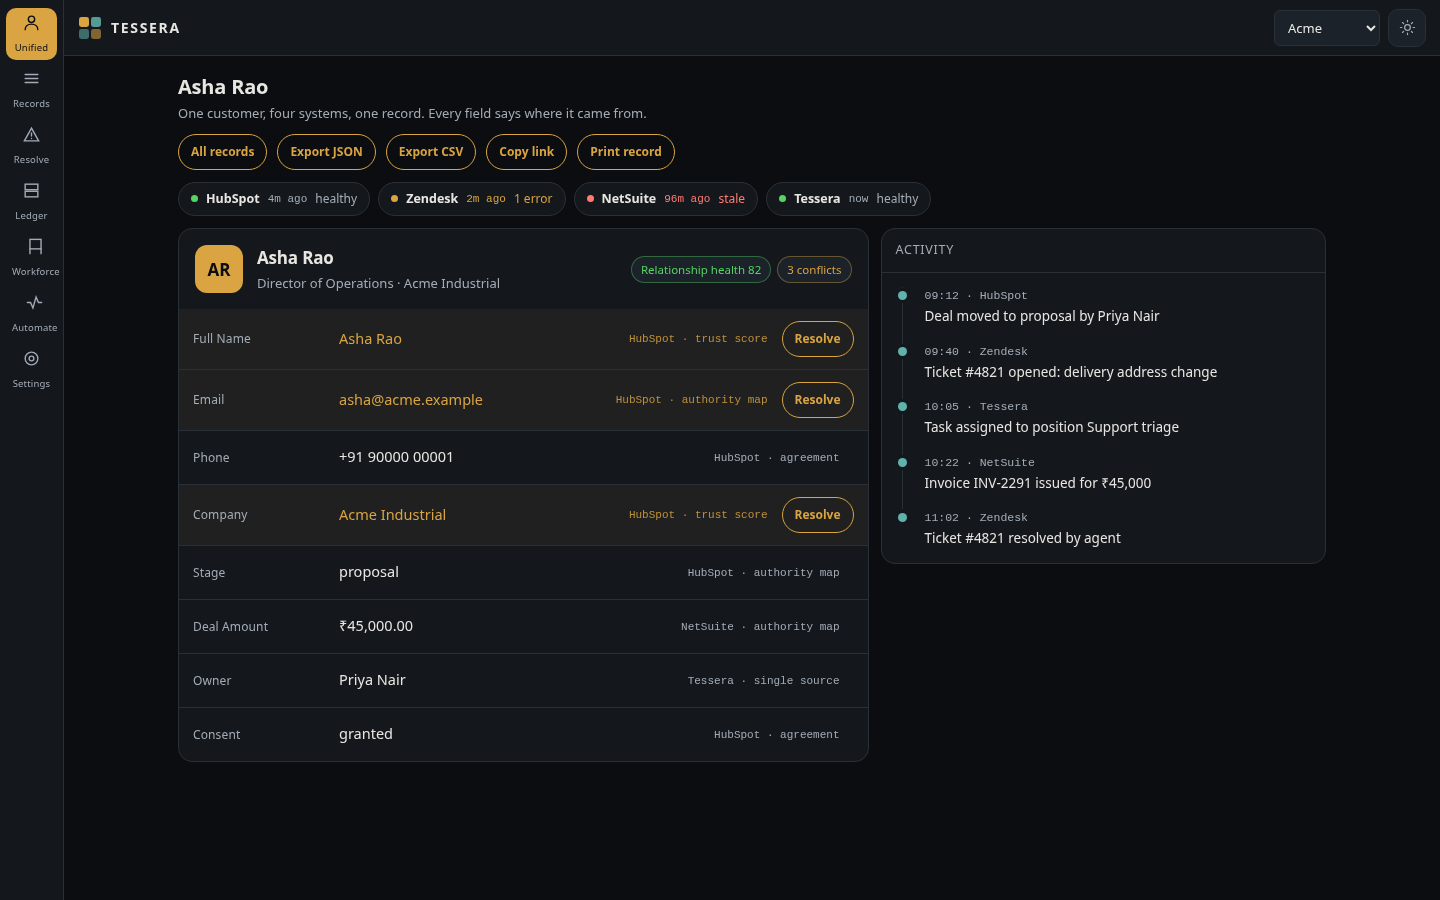
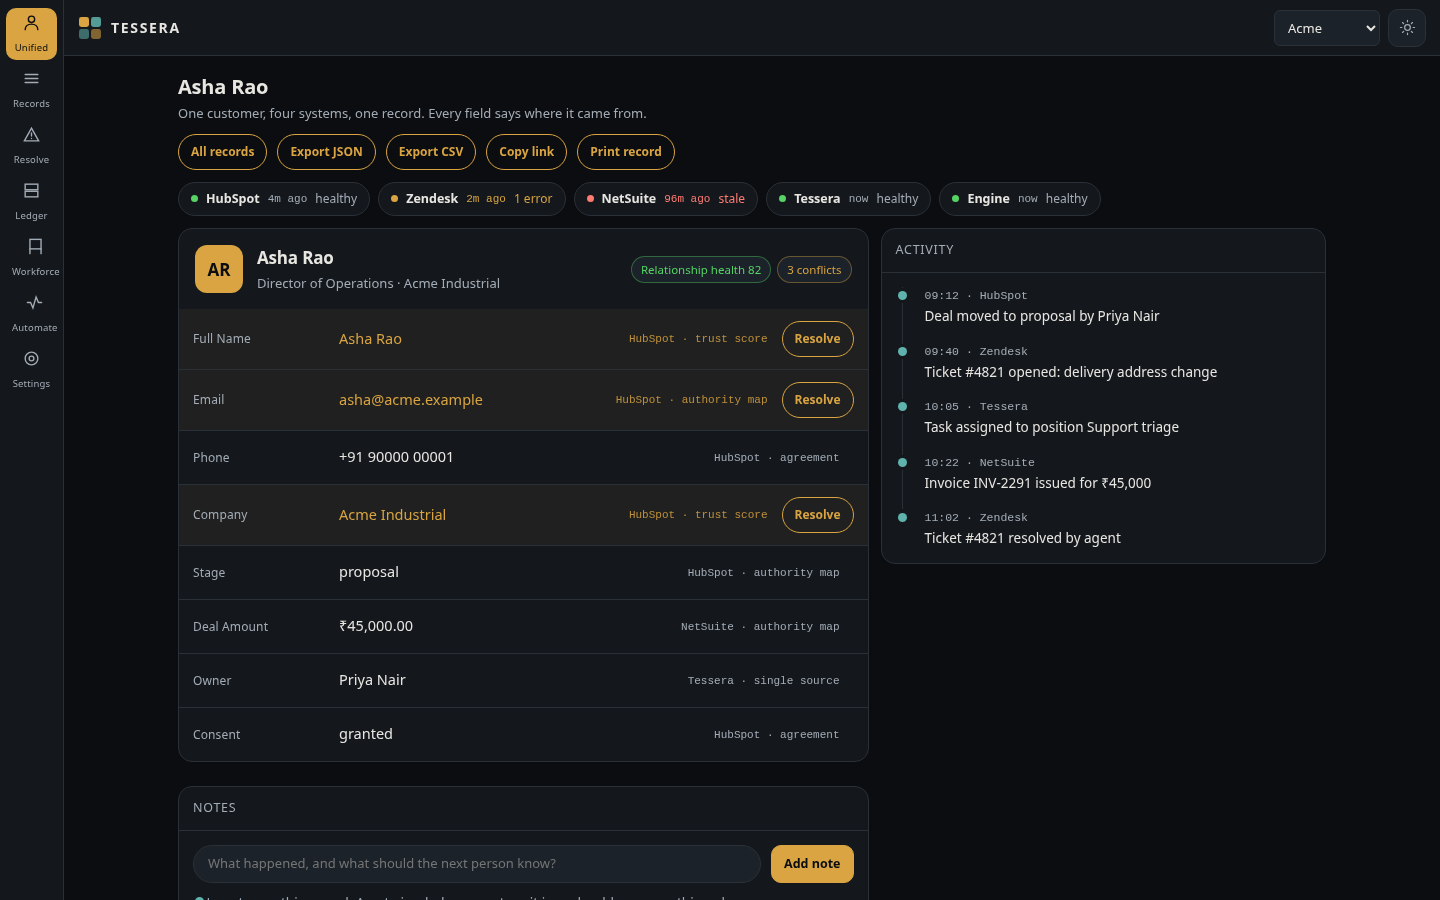
notes, workflow undo, and focus that goes back where it came from
- A note is a note.added ledger event, not a row in a second store: durable,
  attributed, sequenced, and in the chain. Retracting appends note.retracted and
  leaves the original, because a ledger that deletes is not a ledger.
- Undo for a fired workflow, on the same compensating-event pattern as resolve.
- Focus management for all three overlays: remember where focus came from, return
  it on close, keep Tab inside. A dialog you can tab out of strands a keyboard
  user behind the backdrop.

Changed region(s): [[0.125, 0.9333, 0.5938, 1.0], [0.6562, 0.2178, 0.75, 0.2489], [0.125, 0.8711, 0.1562, 0.9022]]

diff --git a/index.html b/index.html
@@ -433,6 +433,19 @@ a{color:var(--accent)}
             <ul class="tl" id="timeline"></ul>
           </div>
         </div>
+
+        <div class="card" style="margin-top:var(--gap)">
+          <header>Notes</header>
+          <div class="body">
+            <div class="row" style="margin-bottom:10px">
+              <label class="sr" for="noteText">Add a note</label>
+              <input id="noteText" class="search" style="flex:1 1 auto;min-width:0"
+                     placeholder="What happened, and what should the next person know?">
+              <button class="btn small primary" id="noteAdd">Add note</button>
+            </div>
+            <ul class="tl" id="noteList"></ul>
+          </div>
+        </div>
       </div>
     </section>
 
@@ -1254,6 +1267,46 @@ async function verifyChain() {
 }
 
 /* ---- rendering ---------------------------------------------------------- */
+/* Every overlay returns focus where it came from and keeps Tab inside itself.
+   A dialog you can tab out of is a dialog that strands a keyboard user behind
+   the backdrop. */
+let sheetReturnFocus = null;
+
+function focusables(root) {
+  return Array.from(root.querySelectorAll(
+    'button, [href], input, select, textarea, [tabindex]:not([tabindex="-1"])'))
+    .filter(node => !node.disabled && node.offsetParent !== null);
+}
+
+function trapFocus(root) {
+  root.addEventListener("keydown", event => {
+    if (event.key !== "Tab") return;
+    const nodes = focusables(root);
+    if (!nodes.length) return;
+    const first = nodes[0];
+    const last = nodes[nodes.length - 1];
+    if (event.shiftKey && document.activeElement === first) {
+      event.preventDefault(); last.focus();
+    } else if (!event.shiftKey && document.activeElement === last) {
+      event.preventDefault(); first.focus();
+    }
+  });
+}
+
+function openSheet(id) {
+  sheetReturnFocus = document.activeElement;
+  const el = $(id);
+  el.hidden = false;
+  const nodes = focusables(el);
+  if (nodes.length) nodes[0].focus();
+}
+
+function closeSheet(id) {
+  $(id).hidden = true;
+  if (sheetReturnFocus && sheetReturnFocus.focus) sheetReturnFocus.focus();
+  sheetReturnFocus = null;
+}
+
 function toast(message, onUndo) {
   const el = $("#toast");
   el.textContent = "";
@@ -1429,6 +1482,38 @@ function renderConnectors() {
       <span>${status.label}</span>
     </span>`;
   }).join("");
+}
+
+function renderNotes() {
+  const host = $("#noteList");
+  if (!host) return;
+  const retracted = new Set((state.ledger || [])
+    .filter(event => event.action === "note.retracted")
+    .map(event => event.payload.note));
+  const notes = (state.ledger || []).filter(event =>
+    event.action === "note.added" &&
+    event.payload.record === state.selected &&
+    !retracted.has(event.payload.note));
+  host.innerHTML = notes.length
+    ? notes.slice().reverse().map(event => `
+        <li><time>#${event.seq} · ${event.actor}</time><p>${event.payload.text}</p></li>`).join("")
+    : `<li style="border-left-color:transparent;padding-left:0"><p class="note">
+         No notes on this record. A note is a ledger event, so it is as durable as everything else.</p></li>`;
+}
+
+async function addNote() {
+  const input = $("#noteText");
+  const text = (input.value || "").trim();
+  if (!text) { input.focus(); return; }
+  const noteId = "n" + Date.now().toString(36);
+  input.value = "";
+  await enqueue("note.added", "human", { record: state.selected, note: noteId, text });
+  renderNotes();
+  toast("Note added", async () => {
+    await enqueue("note.retracted", "human", { record: state.selected, note: noteId });
+    renderNotes();
+    toast("Note retracted - the original stays in the chain");
+  });
 }
 
 function renderTimeline() {
@@ -1680,7 +1765,10 @@ function renderWorkflows() {
     const flow = WORKFLOWS.find(f => f.id === btn.dataset.run);
     if (!evaluateCondition(flow.condition, RECORD)) { toast("Condition does not match this record"); return; }
     await enqueue("workflow.fired", "system", { workflow: flow.id, actions: flow.actions.length });
-    toast(`${flow.name}: ${flow.actions.length} actions ran`);
+    toast(`${flow.name}: ${flow.actions.length} actions ran`, async () => {
+      await enqueue("workflow.reverted", "human", { workflow: flow.id });
+      toast("Run reverted - the firing stays in the chain");
+    });
   });
   $$("[data-toggle]").forEach(btn => btn.onclick = () => {
     const id = btn.dataset.toggle;
@@ -1711,7 +1799,7 @@ function renderAll() {
   $("#printMeta").textContent =
     `${record.name} · ${new Date().toISOString().slice(0, 16).replace("T", " ")} UTC · ` +
     `chain head ${head}… · ${Object.keys(record.fields).filter(isConflict).length} open conflict(s)`;
-  renderRecords(); renderConnectors();
+  renderRecords(); renderConnectors(); renderNotes();
   renderFields(); renderTimeline(); renderRules(); renderConflicts(); renderLedger(); renderSeats();
   renderRouting(); renderWorkflows();
   $("#storageNote").textContent =
@@ -1743,12 +1831,11 @@ function openHistory(field) {
   $("#histBody").innerHTML = rows + `
     <p class="note" style="margin-top:12px">Every write is in the chain. Close this and press
       <b>Verify chain</b> on the Ledger screen to recompute all of it.</p>`;
-  $("#hist").hidden = false;
-  $("#histClose").focus();
+  openSheet("#hist");
 }
 
 function closeHistory() {
-  $("#hist").hidden = true;
+  closeSheet("#hist");
 }
 $("#histClose").onclick = closeHistory;
 $("#hist").onclick = event => { if (event.target.id === "hist") closeHistory(); };
@@ -1786,13 +1873,16 @@ function palCommands() {
 
 function openPalette() {
   $("#pal").hidden = false;
+  sheetReturnFocus = document.activeElement;
   const input = $("#palInput");
   input.value = "";
   renderPalette("");
   input.focus();
 }
 
-function closePalette() { $("#pal").hidden = true; }
+function closePalette() {
+  closeSheet("#pal");
+}
 
 function renderPalette(query) {
   const needle = query.trim().toLowerCase();
@@ -1872,10 +1962,9 @@ function parseCsv(text) {
 }
 
 function openImport() {
-  $("#imp").hidden = false;
-  $("#impClose").focus();
+  openSheet("#imp");
 }
-function closeImport() { $("#imp").hidden = true; }
+function closeImport() { closeSheet("#imp"); }
 
 function previewImport() {
   const text = $("#impText").value;
@@ -1976,6 +2065,8 @@ $("#impFile").onchange = event => {
   reader.onload = () => { $("#impText").value = reader.result; previewImport(); };
   reader.readAsText(file);
 };
+
+["#hist", "#imp", "#pal"].forEach(id => trapFocus($(id)));
 
 /* ---- navigation --------------------------------------------------------- */
 function go(view, recordId) {
@@ -2100,6 +2191,9 @@ $("#exportCsv").onclick = () => {
   enqueue("record.exported", "human", { record: payload.id, format: "csv" });
   toast("Exported as CSV");
 };
+
+$("#noteAdd").onclick = addNote;
+$("#noteText").onkeydown = event => { if (event.key === "Enter") addNote(); };
 
 $("#engineConnect").onclick = connectEngine;
 $("#engineDisconnect").onclick = disconnectEngine;

diff --git a/README.md b/README.md
@@ -39,7 +39,7 @@ shows **where every value came from**, and records the whole thing in a hash cha
 | Screen | What it does |
 |---|---|
 | **Records** | Ten customers, one row each. `/` searches, filter by conflicts, sort by health, save the view you use every morning, and **import a CSV** with a dry run and a one-press rollback. |
-| **Unified** | One record, with a **connector strip** above it. Every field names the system it came from and the rule that chose it. Click a value for its write history; export as JSON or CSV; copy a link; **print** it. |
+| **Unified** | One record, a **connector strip** above it and **notes** below. Every field names the system it came from and the rule that chose it. Click a value for its write history; export as JSON or CSV; copy a link; **print** it; add a note — which is a ledger event, not a separate store. |
 | **Resolve** | Both values, both trust scores, the rule the engine would apply, and whether each candidate is the **current** value or a **change**. Choose one, resolve all, or press **Always** to make it a standing rule. Every choice is logged and undoable. |
 | **Ledger** | Every event, SHA-256 chained. **Verify chain** recomputes it locally. **Tamper** proves the verification works. An undo is a new event, never a deleted one. |
 | **Workforce** | Work goes to a position, not a person. The router shows its term-by-term arithmetic. **Assign**, **assign to me**, or **escalate** with a signed packet — each undoable. |

diff --git a/CHANGELOG.md b/CHANGELOG.md
@@ -1,5 +1,21 @@
 # Changelog
 
+## [1.14.0] - 2026-11-14
+
+### Added
+
+- **Notes per record.** A note is a `note.added` ledger event, not a row in a second store — so it is as durable as
+  everything else, it carries an actor and a sequence number, and it appears in the chain. Retracting one appends
+  `note.retracted`; the original stays, because a ledger that deletes is not a ledger.
+- **Undo for a fired workflow**, on the same compensating-event pattern as resolve and assign.
+- **Focus management for all three overlays.** Each one remembers where focus came from, returns it on close, and
+  keeps Tab inside itself. A dialog you can tab out of strands a keyboard user behind the backdrop.
+
+### Why notes went in the ledger
+
+The alternative — a notes table beside the chain — is the shape that produces the question "which one is true?" six
+months later. One store, one answer, and the audit trail comes free.
+
 ## [1.13.0] - 2026-11-14
 
 ### Added
